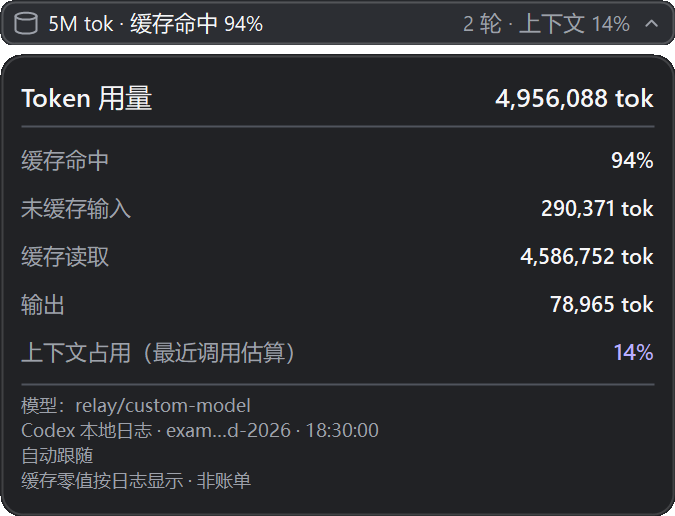
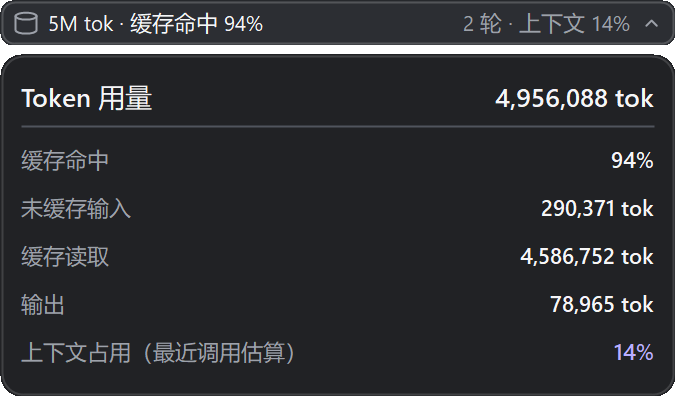
ui: remove overlay footer and display costs to three decimals

diff --git a/src/CodexTokenOverlay/SessionCostTests.cs b/src/CodexTokenOverlay/SessionCostTests.cs
@@ -92,11 +92,11 @@ internal static class SessionCostTests
         check("explicit full alias binding shares scheme", new SessionCostCalculator().Calculate(Single(model: "other/test").Snapshot(), Prices(alias)).Amounts == r.Amounts);
         check("prefix is retained and never inferred", new SessionCostCalculator().Calculate(Single(model: "test").Snapshot(), Prices(alias)).Amounts is null);
         check("model matching is case sensitive", new SessionCostCalculator().Calculate(Single(model: "Relay/test").Snapshot(), Prices(alias)).Amounts is null);
-        check("compact cost four decimal places", CostFormatting.Money(.06725985m, true) == "$0.0673");
-        check("detailed cost eight decimal places", CostFormatting.Money(.06725985m) == "$0.06725985");
-        check("small compact positive not displayed as zero", CostFormatting.Money(.000000001m, true) == "<$0.0001");
-        check("small detail positive not displayed as zero", CostFormatting.Money(.000000001m) == "<$0.00000001");
-        check("actual zero displayed as zero", CostFormatting.Money(0m, true) == "$0.0000");
+        check("compact cost three decimal places", CostFormatting.Money(.06725985m, true) == "$0.067");
+        check("detailed cost three decimal places", CostFormatting.Money(.06725985m) == "$0.067");
+        check("small compact positive not displayed as zero", CostFormatting.Money(.000000001m, true) == "<$0.001");
+        check("small detail positive not displayed as zero", CostFormatting.Money(.000000001m) == "<$0.001");
+        check("actual zero displayed as zero", CostFormatting.Money(0m, true) == "$0.000");
         using var canceled = new CancellationTokenSource(); canceled.Cancel(); var canceledCorrectly = false;
         try { calculator.Calculate(ledger.Snapshot(), prices, canceled.Token); } catch (OperationCanceledException) { canceledCorrectly = true; }
         check("cost computation honors cancellation", canceledCorrectly);
@@ -169,7 +169,7 @@ internal static class SessionCostTests
         var r = calculator.Calculate(snapshot.Ledger!, prices);
         check("modern records parsed by actual reader", r.Amounts?.Total == .06725985m);
         var modernPresentation = OverlayPresentationBuilder.Create(snapshot, DisplayField.Total, DisplayField.Cost, DisplayField.Cost, r);
-        check("modern tokens and fee visible before cumulative token snapshot arrives", snapshot.UsageRecorded && snapshot.TotalTokens == 97_603 && modernPresentation.StatusText is null && modernPresentation.Secondary.Value == "估算 $0.0673");
+        check("modern tokens and fee visible before cumulative token snapshot arrives", snapshot.UsageRecorded && snapshot.TotalTokens == 97_603 && modernPresentation.StatusText is null && modernPresentation.Secondary.Value == "估算 $0.067");
         var legacy = Row("event_msg", new { type = "token_count", info = new { total_token_usage = Usage(SampleUsage) } });
         File.AppendAllText(path, legacy + legacy, encoding); snapshot = monitor.Poll(true)!;
         check("cumulative snapshots display tokens without extra fees", snapshot.TotalTokens == 97_603 && calculator.Calculate(snapshot.Ledger!, prices).Amounts?.Total == .06725985m);
@@ -224,7 +224,7 @@ internal static class SessionCostTests
         check("cost display field and compact selection persist", restored.VisibleFields.HasFlag(DisplayField.Cost) && restored.CollapsedSecondaryField == DisplayField.Cost);
         var r = SampleResult(); var shown = OverlayPresentationBuilder.Create(DiagnosticsRunner.Example(), DisplayField.Total, DisplayField.Cost, DisplayField.Cost, r);
         check("expanded cost includes four components", shown.ExpandedRows.Count == 5 && shown.Secondary.HasValue && shown.EstimateText is not null && shown.IssueText is null);
-        check("compact cost does not repeat label", OverlayPresentationBuilder.CompactText(shown.Secondary) == "估算 $0.0673");
+        check("compact cost does not repeat label", OverlayPresentationBuilder.CompactText(shown.Secondary) == "估算 $0.067");
         var hidden = OverlayPresentationBuilder.Create(DiagnosticsRunner.Example(), DisplayField.Total, DisplayField.CacheHitRate, DisplayField.Output, r);
         check("hiding cost field also hides its four components", hidden.ExpandedRows.All(row => row.Field != DisplayField.Cost));
         var unavailable = OverlayPresentationBuilder.Create(DiagnosticsRunner.Example(), DisplayField.Cost, DisplayField.Total, DisplayField.Cost,

diff --git a/src/CodexTokenOverlay/TokenStripForm.cs b/src/CodexTokenOverlay/TokenStripForm.cs
@@ -919,16 +919,7 @@ internal sealed class TokenStripForm : Form
             var rowBounds = new Rectangle(content.Left, rowsTop + index * rowHeight, content.Width, rowHeight);
             DrawExpandedRow(graphics, _presentation.ExpandedRows[index], rowBounds, labelFont, valueFont);
         }
-        var footerTop = rowsTop + _presentation.ExpandedRows.Count * rowHeight + metrics.HighlightTopGap;
-        graphics.DrawLine(dividerPen, content.Left, footerTop, content.Right, footerTop);
-        footerTop += metrics.HighlightTopGap;
-        using var footerFont = new Font("Microsoft YaHei UI", (float)(metrics.LabelFontPoints * 0.84), FontStyle.Regular, GraphicsUnit.Point);
-        var footerHeight = Math.Max(1, (content.Bottom - footerTop) / 4);
-        var lines = new[] { _presentation.ModelText ?? "模型：未提供", _presentation.SourceText ?? "Codex 本地日志",
-            _presentation.FollowText ?? "等待识别", _presentation.IssueText is null ? _presentation.EstimateText ?? "缓存零值按日志显示 · 非账单" : "⚠ " + _presentation.IssueText };
-        for (var i = 0; i < lines.Length; i++)
-            TextRenderer.DrawText(graphics, lines[i], footerFont, new Rectangle(content.X, footerTop + footerHeight * i, content.Width, footerHeight),
-                i == 3 && _presentation.IssueText is not null ? Color.OrangeRed : _palette.Label, TextFlags);
+
     }
 
     private static void DrawDatabaseIcon(Graphics graphics, Rectangle bounds, Pen pen)

diff --git a/src/CodexTokenOverlay/CostUiTests.cs b/src/CodexTokenOverlay/CostUiTests.cs
@@ -50,7 +50,7 @@ internal static class CostUiTests
             var result = SessionCostTests.SampleResult(); details.SetResult(result.ThreadId, result);
             var groups = Find<DataGridView>(details, "CostGroups"); var unpriced = Find<DataGridView>(details, "UnpricedCalls");
             Check("details window displays model group and exact amount", groups.Rows.Count == 1 &&
-                groups.Rows[0].Cells[8].Value?.ToString() == "$0.06725985");
+                groups.Rows[0].Cells[8].Value?.ToString() == "$0.067");
             Check("details summary names current pricing basis", Find<TextBox>(details, "CostNotes").Text.Contains("按当前配置"));
             var bad = result with { Status = SessionCostStatus.Partial, Amounts = null, PricedCalls = 0, Groups = Array.Empty<CostGroup>(),
                 Unpriced = new[] { new EvaluatedCall(new(new("session", "unpriced"), "turn", "relay/unknown", SessionCostTests.SampleUsage, 1), null, "—", null, "模型未配置价格") } };

diff --git a/src/CodexTokenOverlay/SessionCost.cs b/src/CodexTokenOverlay/SessionCost.cs
@@ -124,9 +124,8 @@ internal static class CostFormatting
 {
     public static string Money(decimal value, bool compact = false)
     {
-        var smallest = compact ? 0.0001m : 0.00000001m;
-        if (value > 0 && value < smallest) return compact ? "<$0.0001" : "<$0.00000001";
-        return "$" + value.ToString(compact ? "0.0000" : "0.00000000", CultureInfo.InvariantCulture);
+        if (value > 0 && value < 0.001m) return "<$0.001";
+        return "$" + value.ToString("0.000", CultureInfo.InvariantCulture);
     }
     public static string Summary(SessionCostResult? result, bool compact) => result?.Amounts is { } a
         ? result.Label + " " + Money(a.Total, compact) + (result.Status == SessionCostStatus.Partial && !compact ? "（部分记录）" : "")

diff --git a/src/CodexTokenOverlay/OverlayLayout.cs b/src/CodexTokenOverlay/OverlayLayout.cs
@@ -81,7 +81,7 @@ internal static class OverlayLayoutCalculator
     private const int TitleLeftReserveDip = 360;
     private const int FallbackCaptionHeightDip = 34;
     private const int FallbackCaptionButtonWidthDip = 46;
-    private const int PanelChromeHeightDip = 148;
+    private const int PanelChromeHeightDip = 68;
     private const int NormalRowHeightDip = 32;
     private const int MinimumRowHeightDip = 24;
 
